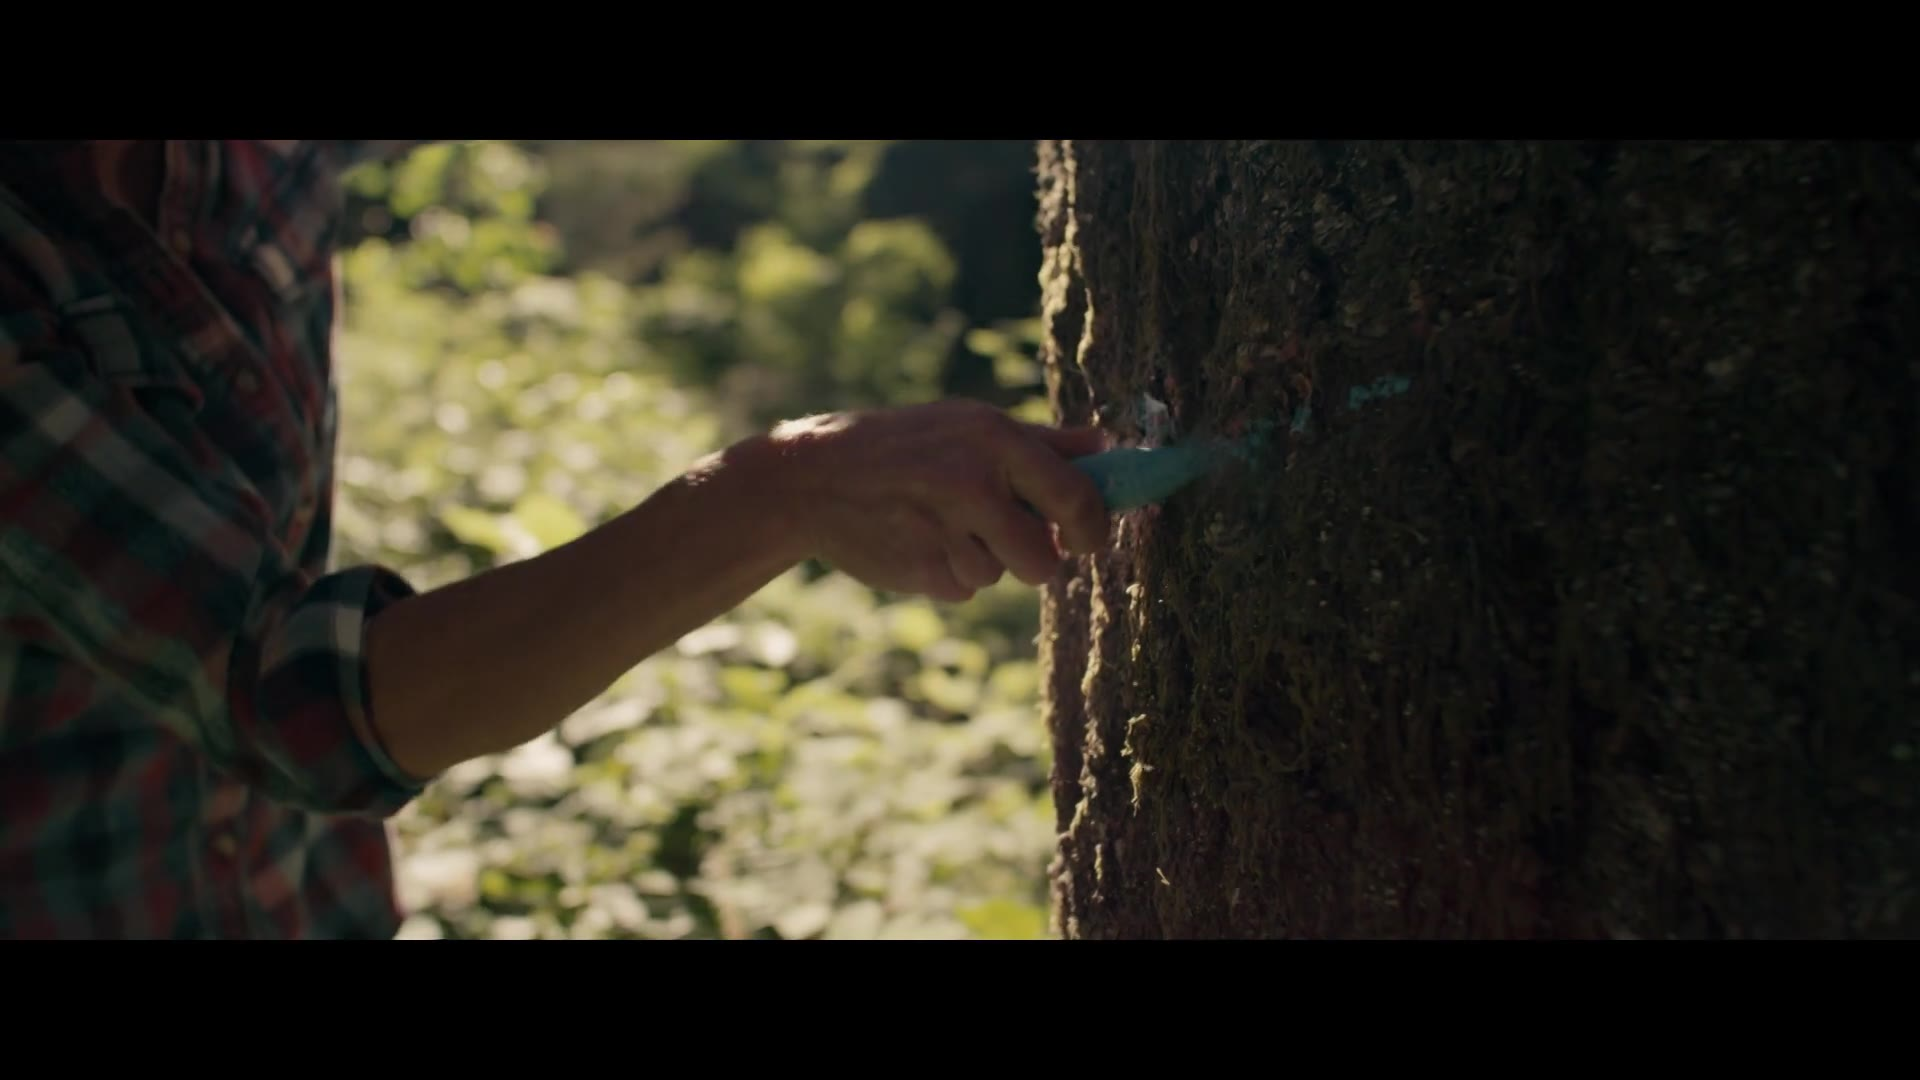
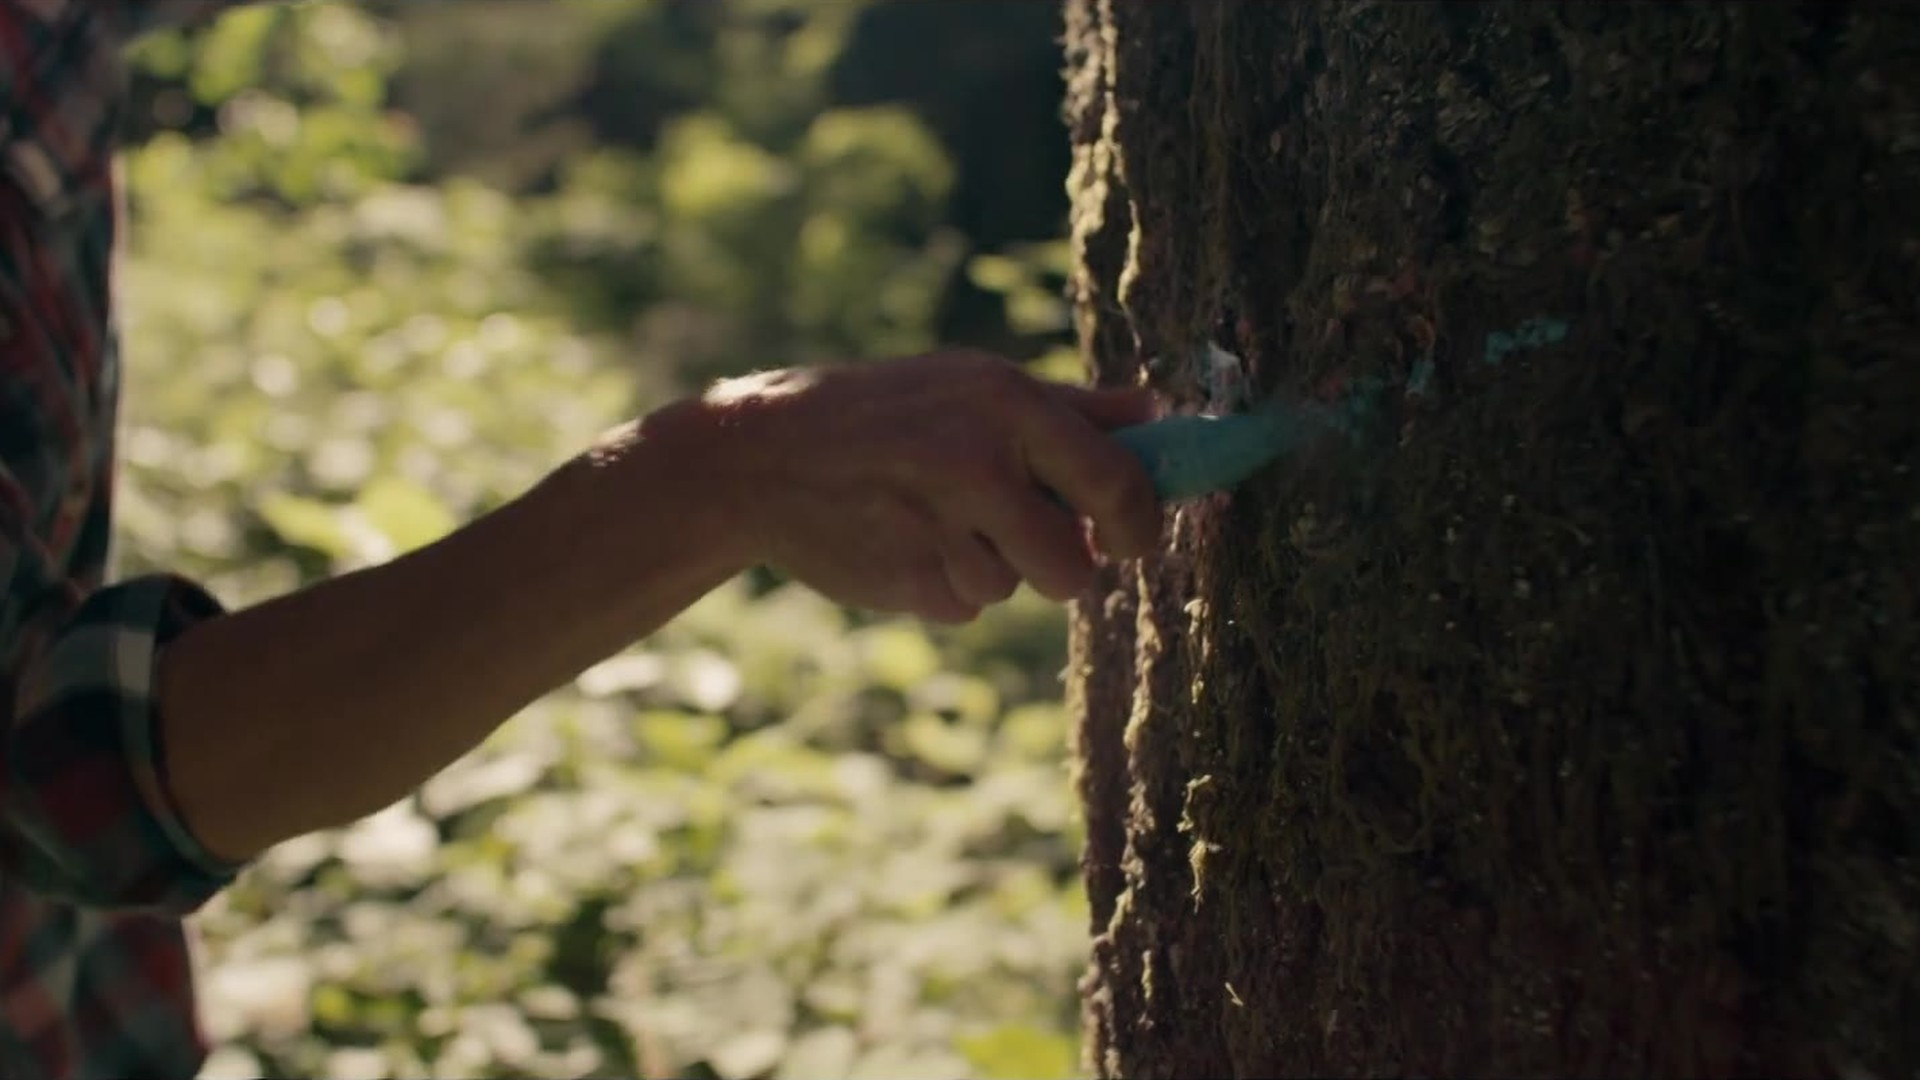
Crop letterboxed thumbnails to 16:9; portal Make Thumbnail trims bars automatically
Claude-Session: https://claude.ai/code/session_01HECev4NT7BsttLAHX9EY15

diff --git a/review-admin.html b/review-admin.html
@@ -422,8 +422,21 @@
     function use(){
       if(!vd.videoWidth){msg.textContent='Let the video load first.';msg.className='msg err';return;}
       vd.pause();
-      var sc=Math.min(1,1280/vd.videoWidth),c=document.createElement('canvas');c.width=Math.round(vd.videoWidth*sc);c.height=Math.round(vd.videoHeight*sc);
-      var data;try{c.getContext('2d').drawImage(vd,0,0,c.width,c.height);data=c.toDataURL('image/jpeg',.88);}catch(e){msg.textContent='Couldn’t read that frame. Reload and try again.';msg.className='msg err';return;}
+      var data;try{
+        var fw=vd.videoWidth,fh=vd.videoHeight,full=document.createElement('canvas');full.width=fw;full.height=fh;
+        var fx=full.getContext('2d');fx.drawImage(vd,0,0,fw,fh);
+        // trim black letterbox bars, then centre-crop to 16:9 so the thumbnail fills the tile
+        var top=0,bot=0,px=fx.getImageData(0,0,fw,fh).data;
+        function dark(y){for(var x=0;x<fw;x+=Math.max(1,fw>>6)){var i=(y*fw+x)*4;if(px[i]>24||px[i+1]>24||px[i+2]>24)return false;}return true;}
+        while(top<fh/3&&dark(top))top++;
+        while(bot<fh/3&&dark(fh-1-bot))bot++;
+        if(top<fh*0.04||bot<fh*0.04||Math.abs(top-bot)>Math.max(6,0.2*Math.max(top,bot))){top=0;bot=0;}   // real letterbox = matching bars top and bottom (not just a dark scene)
+        var ch=fh-top-bot,cw=fw,sx=0;
+        if(cw/ch>16/9){cw=Math.round(ch*16/9);sx=Math.floor((fw-cw)/2);}
+        var sc=Math.min(1,1280/cw),c=document.createElement('canvas');c.width=Math.round(cw*sc);c.height=Math.round(ch*sc);
+        c.getContext('2d').drawImage(full,sx,top,cw,ch,0,0,c.width,c.height);
+        data=c.toDataURL('image/jpeg',.88);
+      }catch(e){msg.textContent='Couldn’t read that frame. Reload and try again.';msg.className='msg err';return;}
       post({image:data}).catch(function(e){msg.textContent=e.message;msg.className='msg err';});
     }
     var err=h('div',{class:'hint',style:'display:none',text:'This video can’t be played here right now.'});
